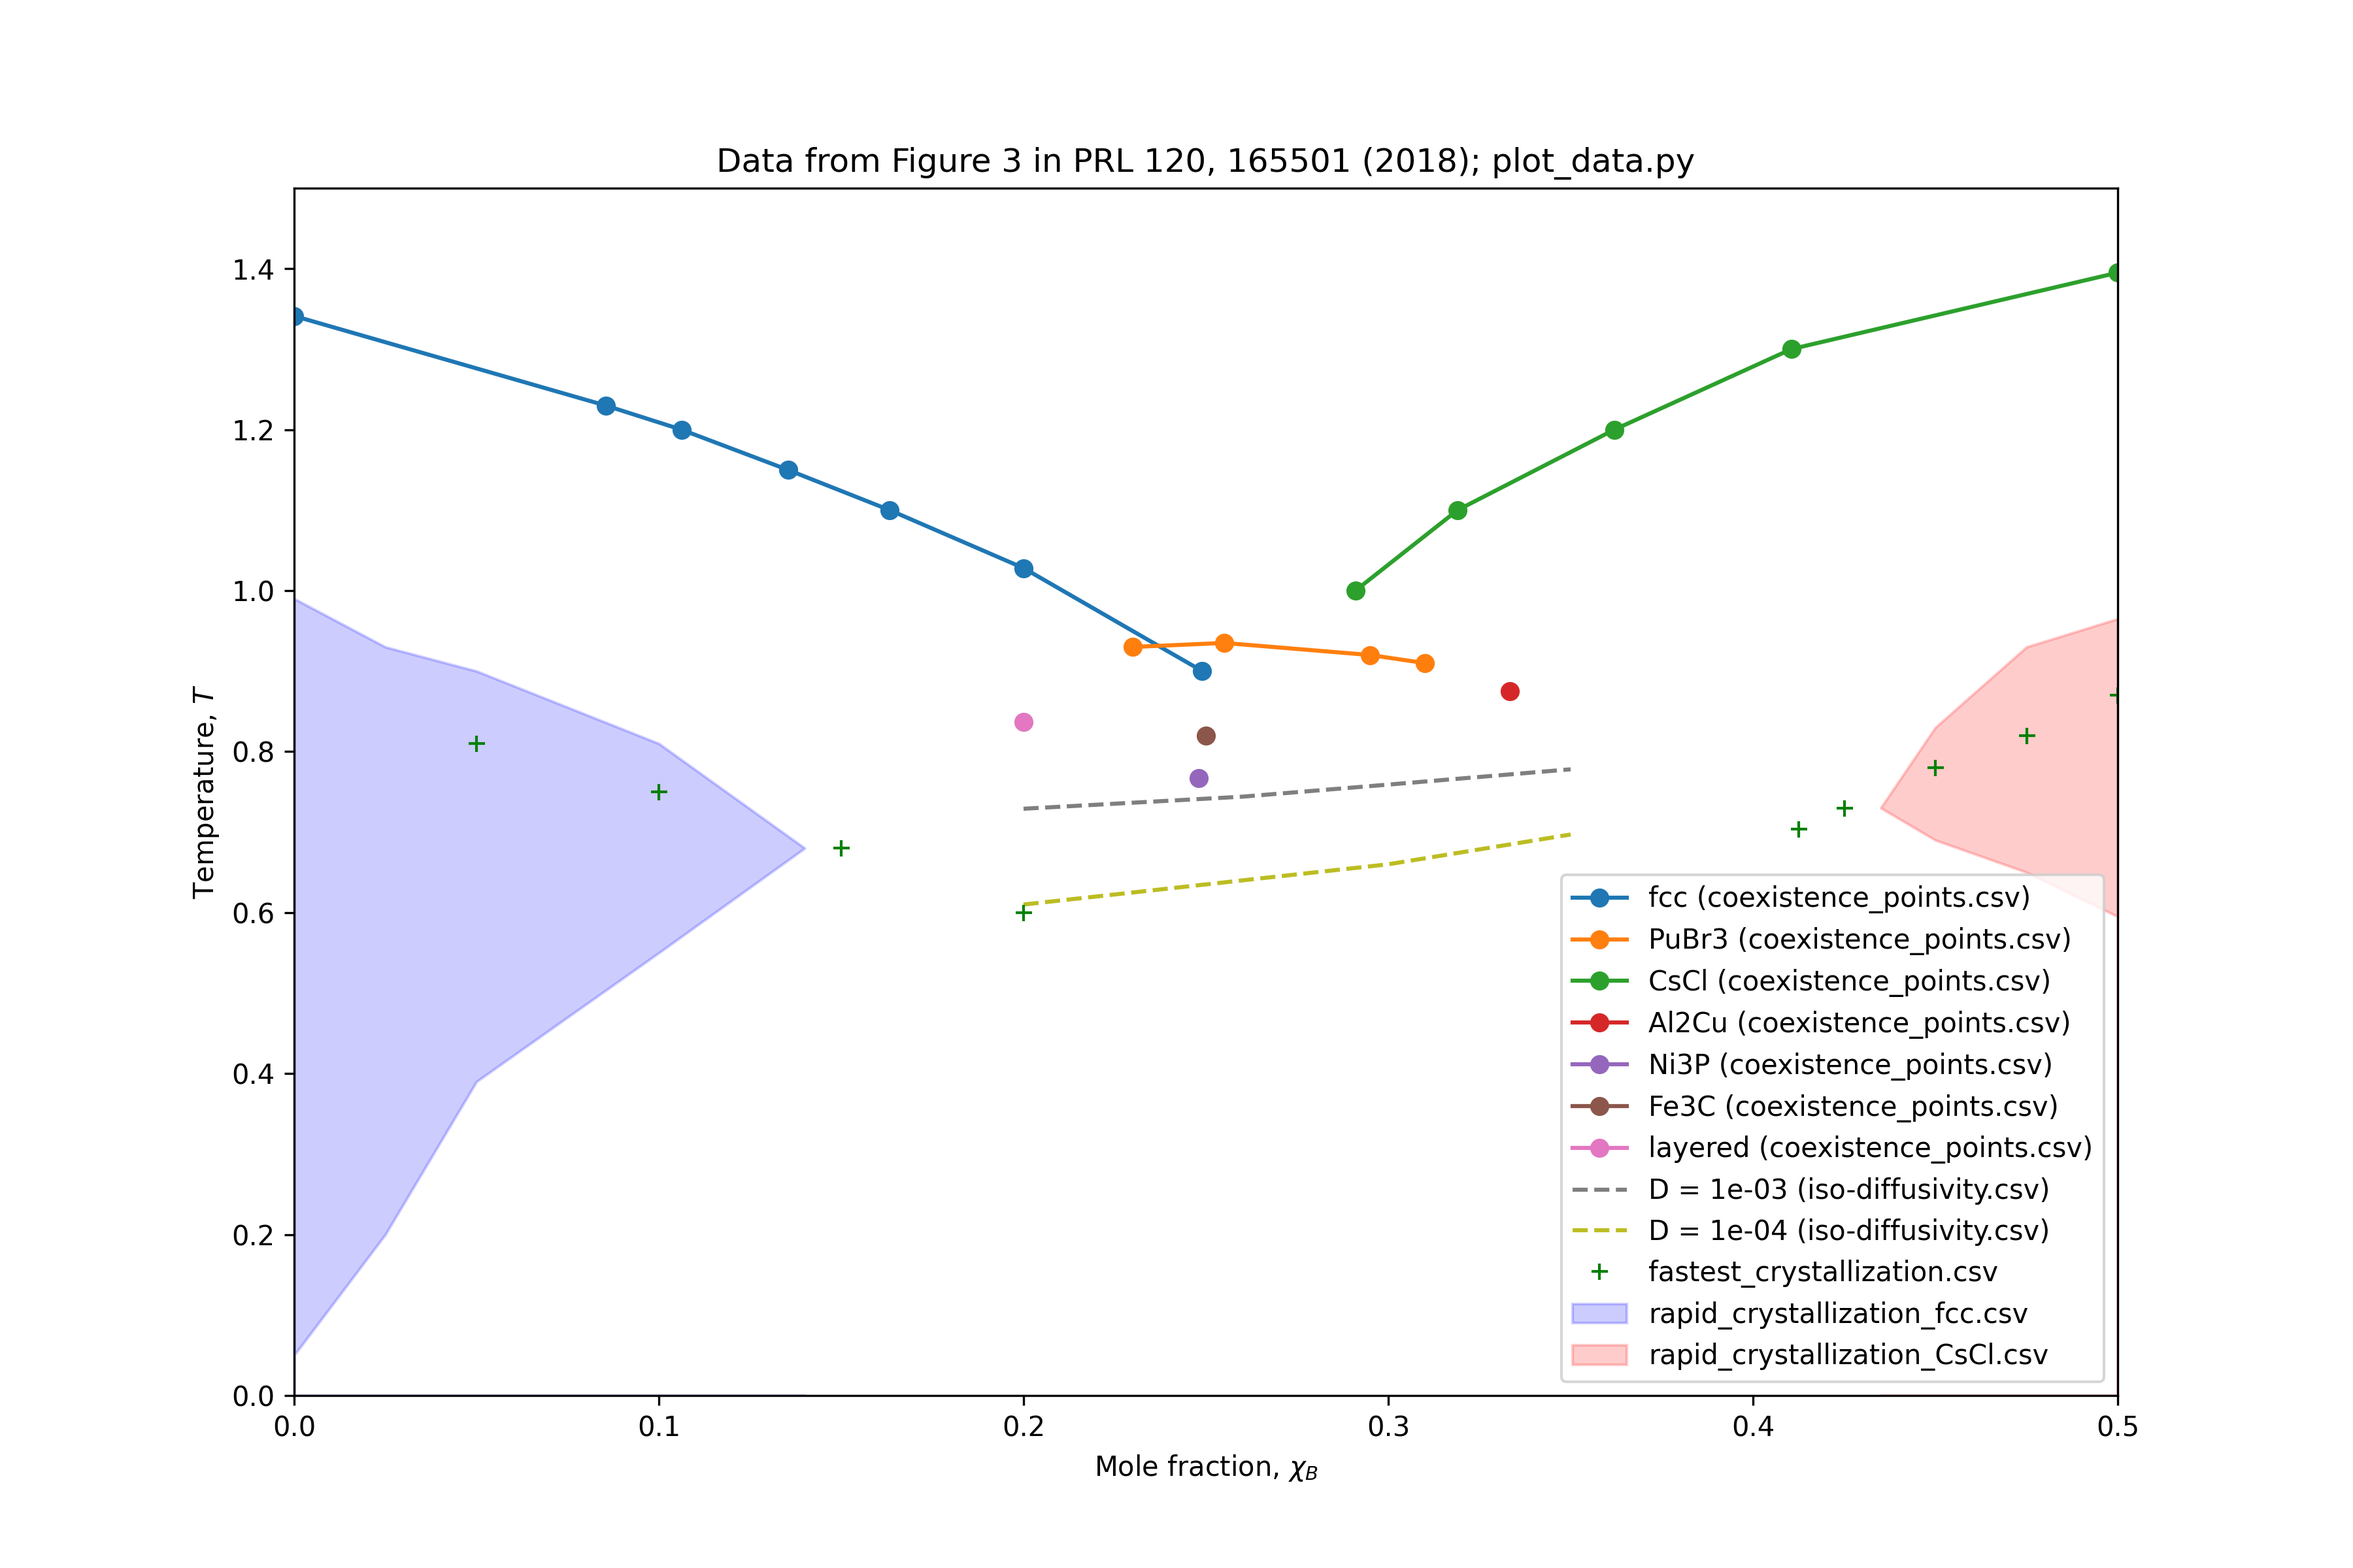
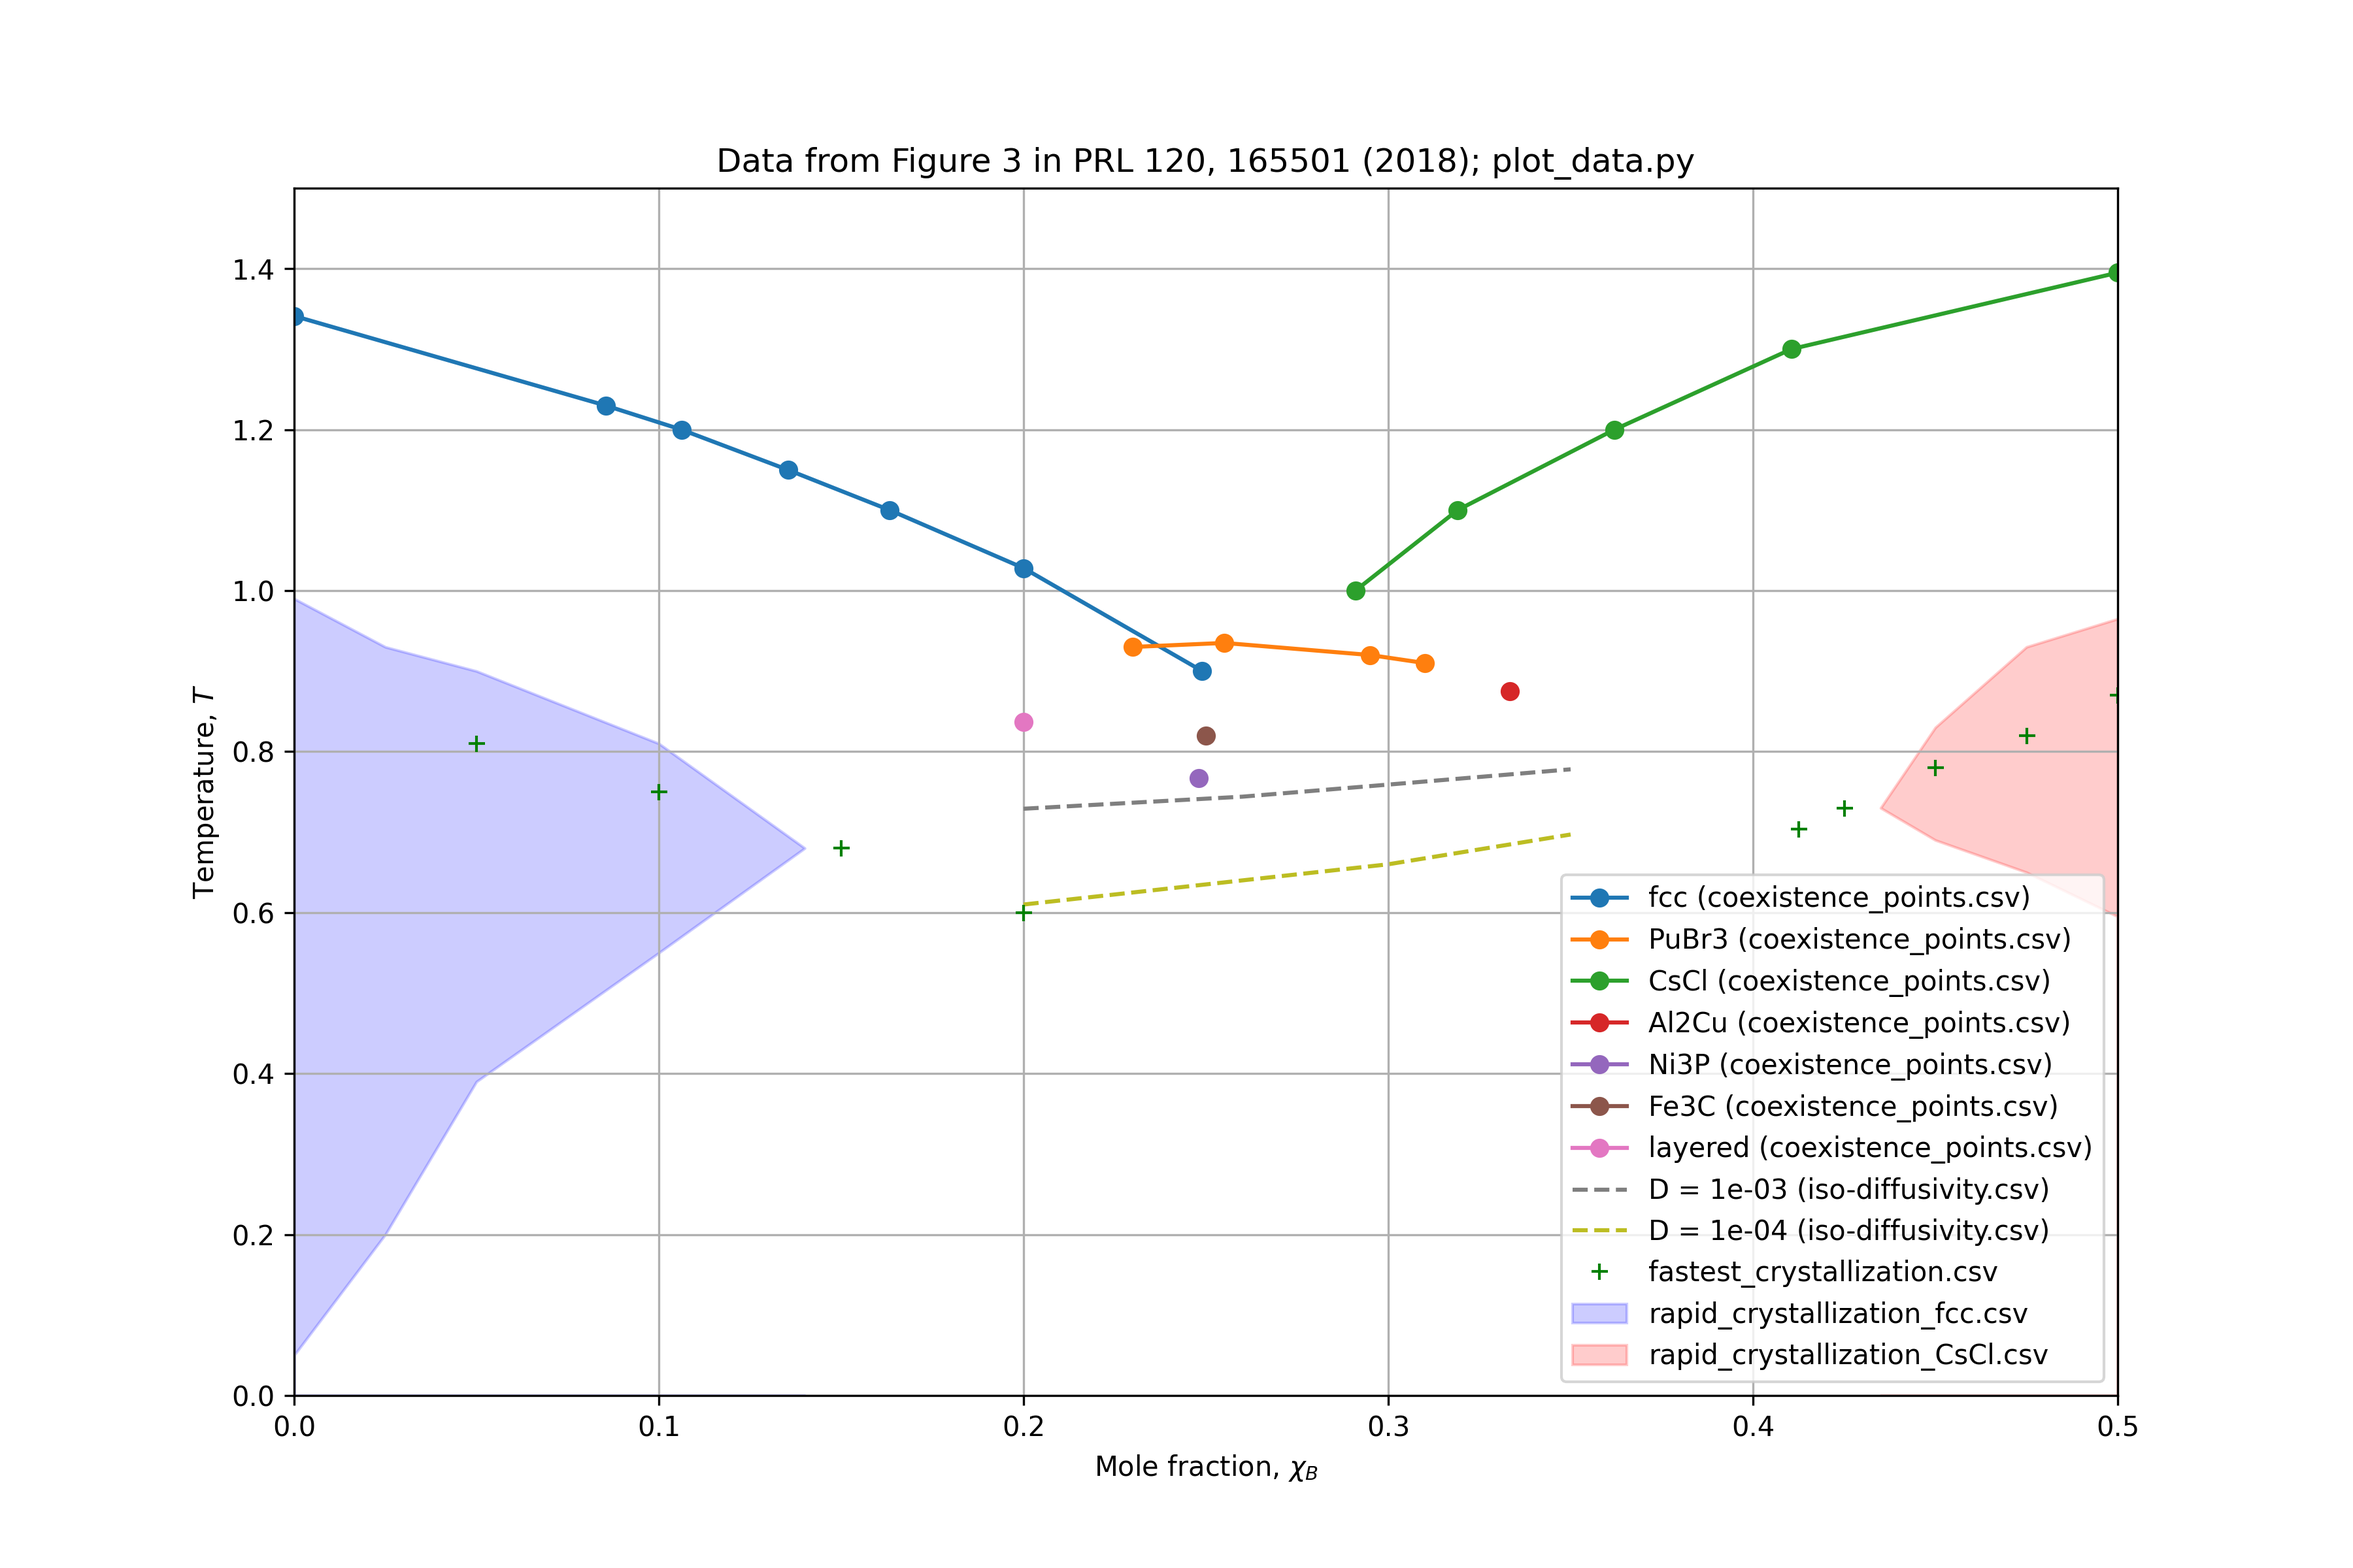
Added grid lines.

diff --git a/figure_3/plot_data.py b/figure_3/plot_data.py
@@ -13,6 +13,7 @@ plt.yscale("log")
 plt.xlim(0, 0.5)
 plt.xlabel("Mole fraction, $\chi_B$")
 plt.ylabel(r"Time, $t^*_\text{min}$" f"  ({filename})")
+plt.grid()
 plt.savefig("crystallization_time.png", dpi=300)
 plt.show()
 
@@ -77,5 +78,6 @@ plt.ylim(0, 1.5)
 plt.xlabel("Mole fraction, $\chi_B$")
 plt.ylabel("Temperature, $T$")
 plt.legend(loc="lower right")
+plt.grid()
 plt.savefig("phase_diagram.png", dpi=300)
 plt.show()
